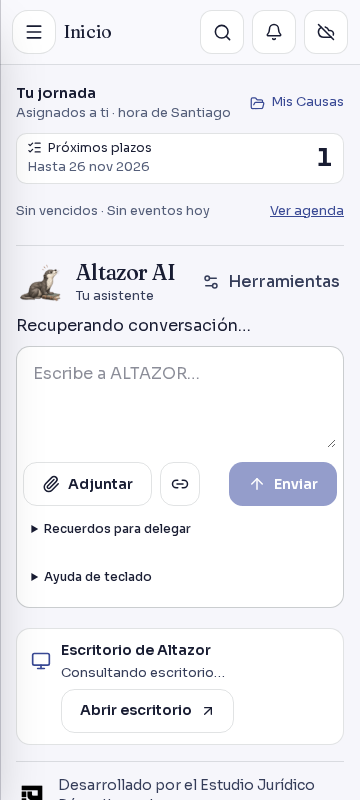
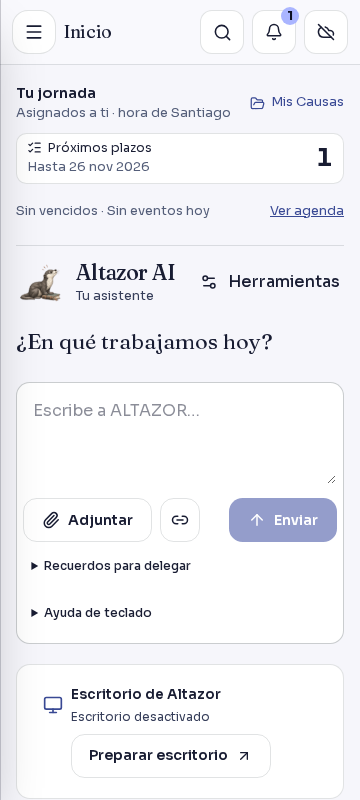
Conserva la conversación activa y ajusta folios largos en móviles

diff --git a/src/components/altazor/useAltazorCompanionState.ts b/src/components/altazor/useAltazorCompanionState.ts
@@ -153,6 +153,9 @@ export function useAltazorCompanionState() {
     const result = await request<{ conversation?: Conversation; reused?: boolean; clarify?: string }>("/api/altazor/conversations/prepare", { ...payload, requestId: conversationRequest.current.forPayload(payload) });
     if (result.clarify) { setClarification(result.clarify); return null; }
     if (!result.conversation) throw new Error("No se pudo recuperar la conversación. Tu mensaje se conserva.");
+    // Publish the prepared conversation before a render can observe the previous URL.
+    locationVersion.current++;
+    reflectConversationLocation(result.conversation.id);
     if (result.conversation.id !== liveId.current) {
       const newScope = !liveId.current && result.conversation.causaId === memoryCaseId
         ? JSON.stringify([result.conversation.id, result.conversation.causaId])
@@ -167,7 +170,6 @@ export function useAltazorCompanionState() {
       void savePreference({ activeConversationId: result.conversation.id });
     }
     await reload(result.conversation.id); await loadList();
-    reflectConversationLocation(result.conversation.id);
     return result.conversation.id;
   }
   async function send() {
@@ -218,6 +220,9 @@ export function useAltazorCompanionState() {
     finally { if (action !== "cancel") setBusy(false); }
   }
   function synchronizeLocation(pathname:string,search:string) {
+    // The router can deliver a previous search while catching up with replaceState.
+    const isCurrentLocation = () => pathname === location.pathname && search === new URLSearchParams(location.search).toString();
+    if (!isCurrentLocation()) return;
     const match = pathname.match(/^\/(?:causas|pjud)\/([^/]+)(?:\/|$)/);
     routeCausaId.current = match && !["nueva", "monitoreo", "mis-causas"].includes(match[1]) ? match[1] : "";
     if (loading||pathname!=="/inicio") return;
@@ -228,7 +233,7 @@ export function useAltazorCompanionState() {
     const read=async<T,>(url:string):Promise<T>=>{const response=await fetch(url,{signal:controller.signal,cache:"no-store"}),value=await response.json();if(!response.ok)throw Error(value.error||"La selección no está disponible");return value;};
     // Both the linked cause and any explicit conversation are checked before replacing a draft.
     void Promise.all([read<{causas:{id:string;titulo:string;rit:string|null}[]}>(`/api/altazor/resources${requestedCase?`?causaId=${encodeURIComponent(requestedCase)}`:""}`),requestedConversation?read<ConversationData>(`/api/altazor/conversations/${encodeURIComponent(requestedConversation)}`):Promise.resolve(null)]).then(([resources,selected])=>{
-      if(controller.signal.aborted || version !== locationVersion.current)return;
+      if(controller.signal.aborted || version !== locationVersion.current || !isCurrentLocation())return;
       if(selected&&requestedCase&&selected.conversation.causaId!==requestedCase)throw Error("La conversación no pertenece a la causa solicitada. Tu borrador se conserva.");
       if(controller.signal.aborted)return;setCausas(resources.causas || []);
       if(selected&&requestedConversation!==liveId.current)chooseConversation(selected.conversation.id, selected.conversation.status === "active");
@@ -238,7 +243,7 @@ export function useAltazorCompanionState() {
         const url = new URL(location.href); url.searchParams.delete("intencion"); url.searchParams.delete("run"); history.replaceState(null, "", url.pathname + url.search);
       }
       if (selectedPane && ["chat", "memory", "connectors", "computer", "icaros", "help"].includes(selectedPane)) choosePane(selectedPane as Pane, false);
-    }).catch(reason=>{if(!controller.signal.aborted && version === locationVersion.current)setError(reason.message);});
+    }).catch(reason=>{if(!controller.signal.aborted && version === locationVersion.current && isCurrentLocation())setError(reason.message);});
     return()=>controller.abort();
   }
   return { icaroMemorySelections, selectIcaroMemory, continuation, setContinuation, continueJob, linkedDocumentId, libraryNotice, setLibraryNotice, initialFailed, pane, visited, conversations, activeId, data, setData, destination, causas, scope, text, setText, attachmentIds, setAttachmentIds, clarification, busy, setBusy, uploading, error, setError, loading, input, textarea, liveId, reload, choosePane, leaveCaseContext, send, upload, turnAction, running, hasDelegations, preference, preferenceSaving, preferenceError, savePreference,synchronizeLocation };

diff --git a/src/components/fiscalia/FiscaliaWorkspace.tsx b/src/components/fiscalia/FiscaliaWorkspace.tsx
@@ -102,8 +102,8 @@ export function FiscaliaWorkspace({ rows, causes, truncated, userId, causaId = "
         <div className="min-w-0"><h3 className="break-words font-semibold"><Link className="text-[var(--sea)] underline-offset-4 hover:underline" href={`/mi-fiscalia/${encodeURIComponent(row.id)}`}>{row.title}</Link></h3><p className="mt-1 text-sm">{FISCALIA_STATUSES[row.status]} · {FISCALIA_KINDS[row.kind]}</p><Link className="break-words text-sm text-[var(--sea)]" href={`/causas/${row.causaId}`}>{row.causa.titulo}</Link></div>
         <span className="badge badge-sea">{FISCALIA_STATUSES[row.status]}</span>
       </div>
-      <dl className="grid gap-4 border-y border-[var(--line)] py-4 sm:grid-cols-2 lg:grid-cols-3">
-        <div><dt className="text-xs text-[var(--muted)]">RUC · Folio</dt><dd className="mt-1 break-words text-sm">{row.ruc || "Por confirmar"}<span className="block font-medium">{row.folio || operations.noFolio}</span></dd></div>
+      <dl className="grid min-w-0 grid-cols-1 gap-4 border-y border-[var(--line)] py-4 sm:grid-cols-2 lg:grid-cols-3">
+        <div><dt className="text-xs text-[var(--muted)]">RUC · Folio</dt><dd className="mt-1 break-words text-sm">{row.ruc || "Por confirmar"}<span className="block font-medium [overflow-wrap:anywhere]">{row.folio || operations.noFolio}</span></dd></div>
         <div><dt className="text-xs text-[var(--muted)]">{operations.recordedState}</dt><dd className="mt-1 text-sm">{FISCALIA_STATUSES[row.status]}{row.submittedAt && <span className="block text-xs text-[var(--muted)]">Presentación registrada por el usuario: {formatCivilDate(row.submittedAt)}. No sincronizada con el portal.</span>}</dd></div>
         <div><dt className="text-xs text-[var(--muted)]">{operations.nextManagement}</dt><dd className="mt-1 text-sm font-medium">{operations[fiscaliaNextAction(row.status)]}<span className="mt-1 block text-xs font-normal text-[var(--muted)]">{row.followUpDate ? `Revisar seguimiento: ${formatCivilDate(row.followUpDate)}` : operations.noFollowup}</span></dd></div>
       </dl>

diff --git a/src/app/(app)/mi-fiscalia/[id]/page.tsx b/src/app/(app)/mi-fiscalia/[id]/page.tsx
@@ -24,9 +24,9 @@ export default async function Page({ params, searchParams }: { params: Promise<{
     <nav className="flex flex-wrap gap-4 text-sm"><Link className="underline" href={`/mi-fiscalia?causaId=${row.causaId}`}>Solicitudes de la causa</Link><Link className="underline" href={`/causas/${row.causaId}`}>{row.causa.titulo}</Link></nav>
     <PageHeader title={row.title} subtitle={`${FISCALIA_KINDS[item.kind]} · ${status(row.status)}`} />
     <section className="panel space-y-3 rounded-2xl p-5" aria-label="Datos de la solicitud">
-      <dl className="grid gap-3 sm:grid-cols-2">
+      <dl className="grid min-w-0 grid-cols-1 gap-3 sm:grid-cols-2">
         <div><dt>RUC</dt><dd>{row.ruc || "Por confirmar"}</dd></div>
-        <div><dt>Folio registrado</dt><dd>{row.folio || operations.noFolio}</dd></div>
+        <div className="min-w-0"><dt>Folio registrado</dt><dd className="[overflow-wrap:anywhere]">{row.folio || operations.noFolio}</dd></div>
         {row.submittedAt && <div><dt>Presentación registrada por el estudio</dt><dd>{formatCivilDate(row.submittedAt)}</dd></div>}
         {row.followUpDate && <div><dt>Seguimiento del estudio</dt><dd>{formatCivilDate(row.followUpDate)}</dd></div>}
       </dl>

diff --git a/e2e/settings-categories.spec.ts b/e2e/settings-categories.spec.ts
@@ -168,11 +168,12 @@ test("ajustes: cambiar de categoría y usar atrás/adelante conserva campos y me
   await expect(page).toHaveURL(/#llm-settings$/);
   await expect(setting).toHaveValue("llm-settings");
   await expect(key).toHaveValue("clave-ficticia-no-enviada");
-  await expect(name).toHaveValue("Edición ficticia sin guardar");
-  await expect(page.locator("#estudio").getByRole("status")).toContainText("No se pudo guardar");
   await page.goForward();
   await expect(page).toHaveURL(/#idioma$/);
   await expect(setting).toHaveValue("idioma");
+  await setting.selectOption("estudio");
+  await expect(name).toHaveValue("Edición ficticia sin guardar");
+  await expect(page.locator("#estudio").getByRole("status")).toContainText("No se pudo guardar");
   expect(writes).toHaveLength(1);
   expect(writes[0]).toMatch(/\/api\/configuracion$/);
   await page.screenshot({ path: info.outputPath("settings-categories-desktop.png"), fullPage: false });

diff --git a/e2e/deadline-completion.spec.ts b/e2e/deadline-completion.spec.ts
@@ -118,6 +118,8 @@ test("plazos: páginas completas, respaldo documental retenido, historial y móv
     expect(origin.searchParams.get("after")).toBe(firstResponse.headers()["x-next-cursor"]);
     expect(origin.hash).toBe(`#plazo-${target.id}`);
     await back.click();
+    await expect(page).toHaveURL(origin.href);
+    await expect(card.getByRole("heading", { level: 2, name: target.titulo, exact: true })).toBeVisible();
     await expect(card).toBeInViewport();
     await card
       .getByRole("button", { name: "Registrar cumplimiento", exact: true })
